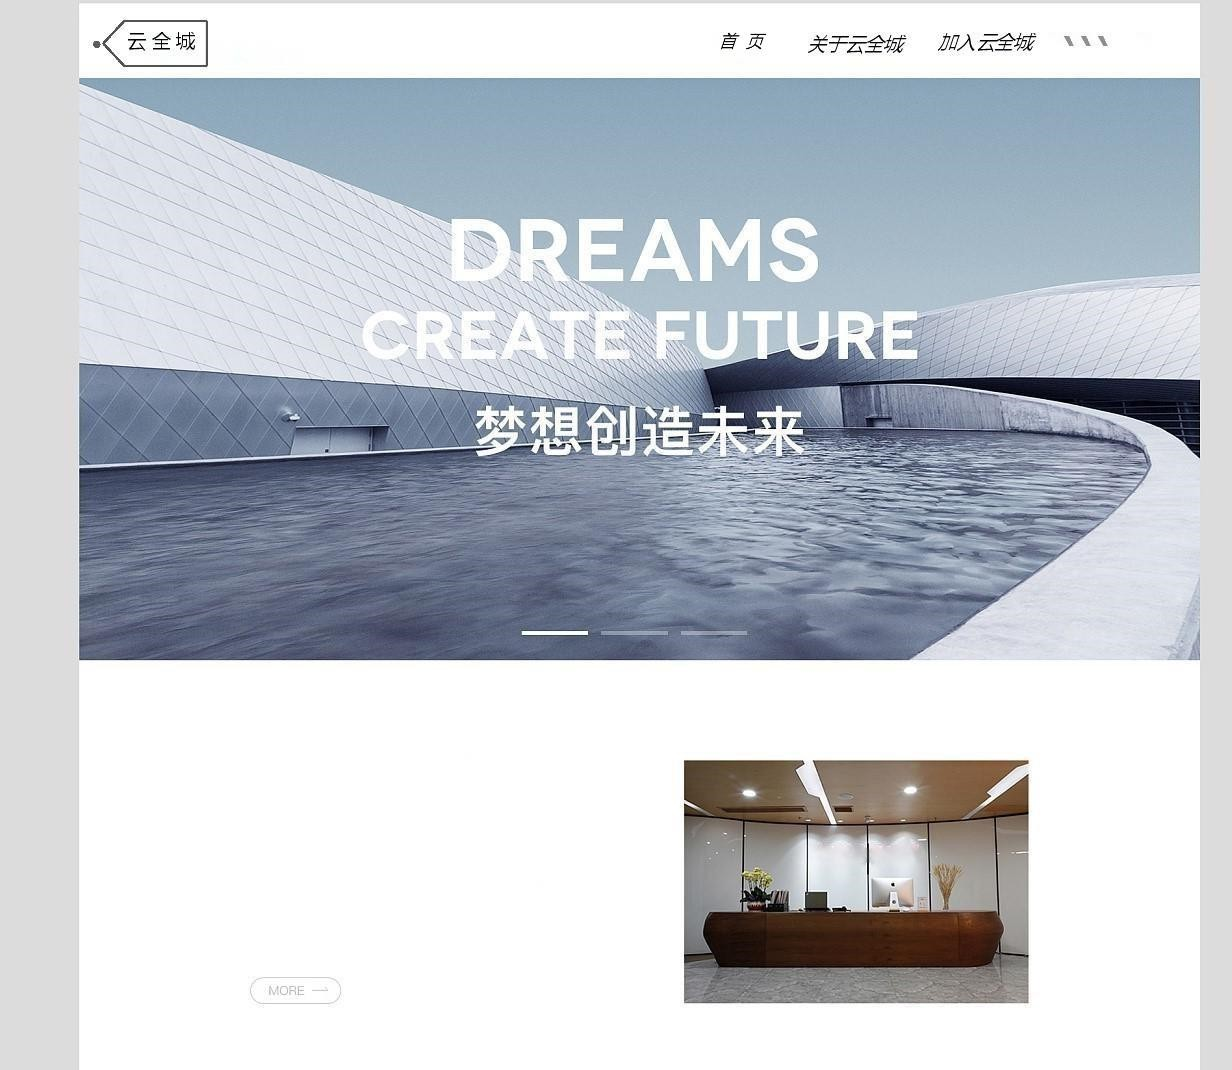
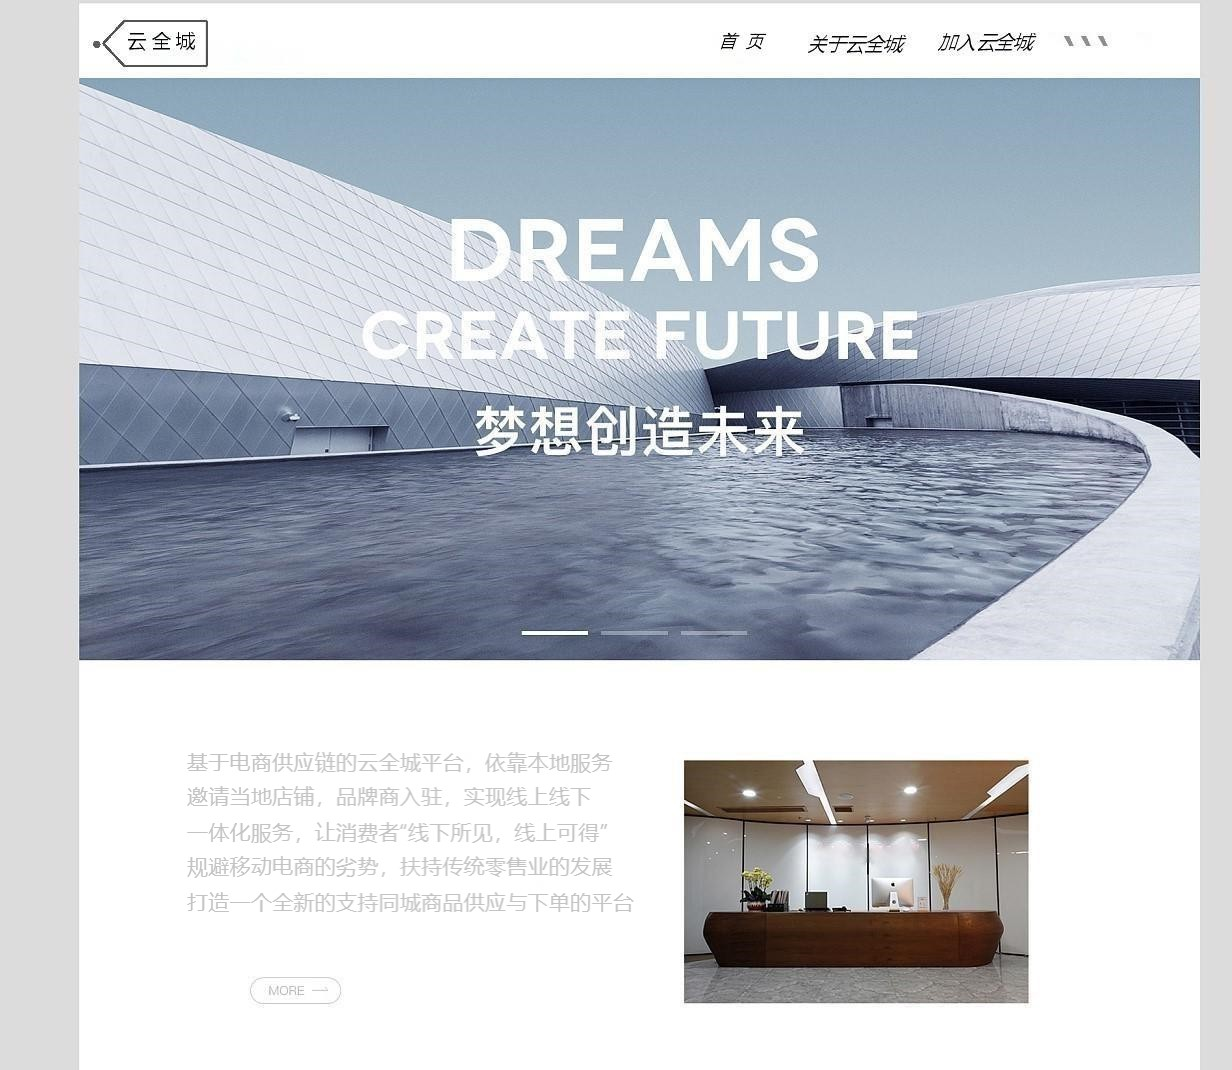
git

Changed region(s): [[0.1542, 0.7093, 0.4935, 0.8636]]

diff --git a/index.html b/index.html
@@ -37,7 +37,7 @@
     </a>
     <aside class="sidebar">
       <div class="sidebar-panel sidebar-panel-active" id="site-overview-wrap">
-        <div class="site-info"><a class="site-author-avatar" href="https://space.bilibili.com/43887543" title="だょね"><img loading="lazy"
+        <div class="site-info"><a class="site-author-avatar" href="https://bilibili.com/" title="だょね"><img loading="lazy"
               src="/头像.jpg" alt="ahe"></a>
           <div class="site-author-name"><a href="https://github.com/Kirito007-hhh/Kirito007-hhh.github.io">阿河河河河</a></div><a class="site-name"
             href="/about/site.html">tobe...</a><sub class="site-subtitle"></sub>
@@ -58,7 +58,7 @@
         </nav>
         <hr style="margin-bottom:0.5rem">
         <div class="links-of-author"> <a class="links-of-author-item hty-icon-button" rel="noopener"
-            href="https://space.bilibili.com/43887543" title="哔哩哔哩" target="_blank" style="color:#FF8EB3"><svg
+            href="https://bilibili.com/" title="哔哩哔哩" target="_blank" style="color:#FF8EB3"><svg
               class="icon" aria-hidden="true">
               <use xlink:href="#icon-bilibili-line"></use>
             </svg></a>  </div>

diff --git a/2020/04/09/hello-world/index.html b/2020/04/09/hello-world/index.html
@@ -118,21 +118,21 @@ body {
 </div>
 
 <div class="navbar">
-  <a href="/素材/site4_WPS图片_WPS图片.jpg">链接</a>
-  <a href="/素材/site1_WPS图片.jpg">官网</a>
   <a href="/素材/site_WPS图片_WPS图片.jpg">链接</a>
+  <a href="/素材/site1_WPS图片.jpg">官网</a>
+  <a href="/素材/site4_WPS图片_WPS图片_WPS图片.jpg">链接</a>
   <a href="#" class="right">链接</a>
 </div>
 
 <div class="row">
   <div class="side">
-      <h2>关于我</h2>
-      <h5>我的照片:</h5>
+      <h2>关于我们</h2>
+      <h5>照片:</h5>
       <div class="fakeimg" style="height:200px;">
     <img src ="#" alt="error" height="200"></div>
-      <p>啦啦啦</p>
+      <p>待续</p>
       <h3>更多内容</h3>
-      <p>未完待续</p>
+      <p>待续</p>
       <div class="fakeimg" style="height:60px;">这边插入图像</div><br>
       <div class="fakeimg" style="height:60px;">这边插入图像</div><br>
       <div class="fakeimg" style="height:60px;">这边插入图像</div>
